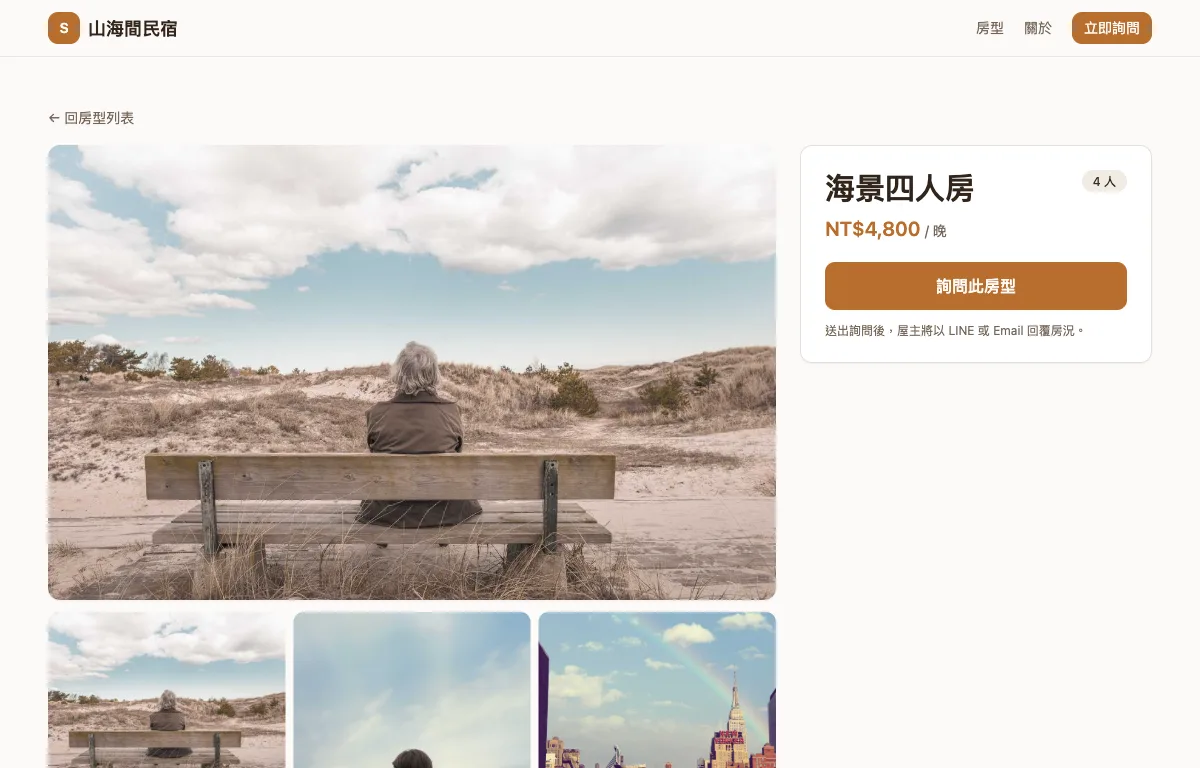
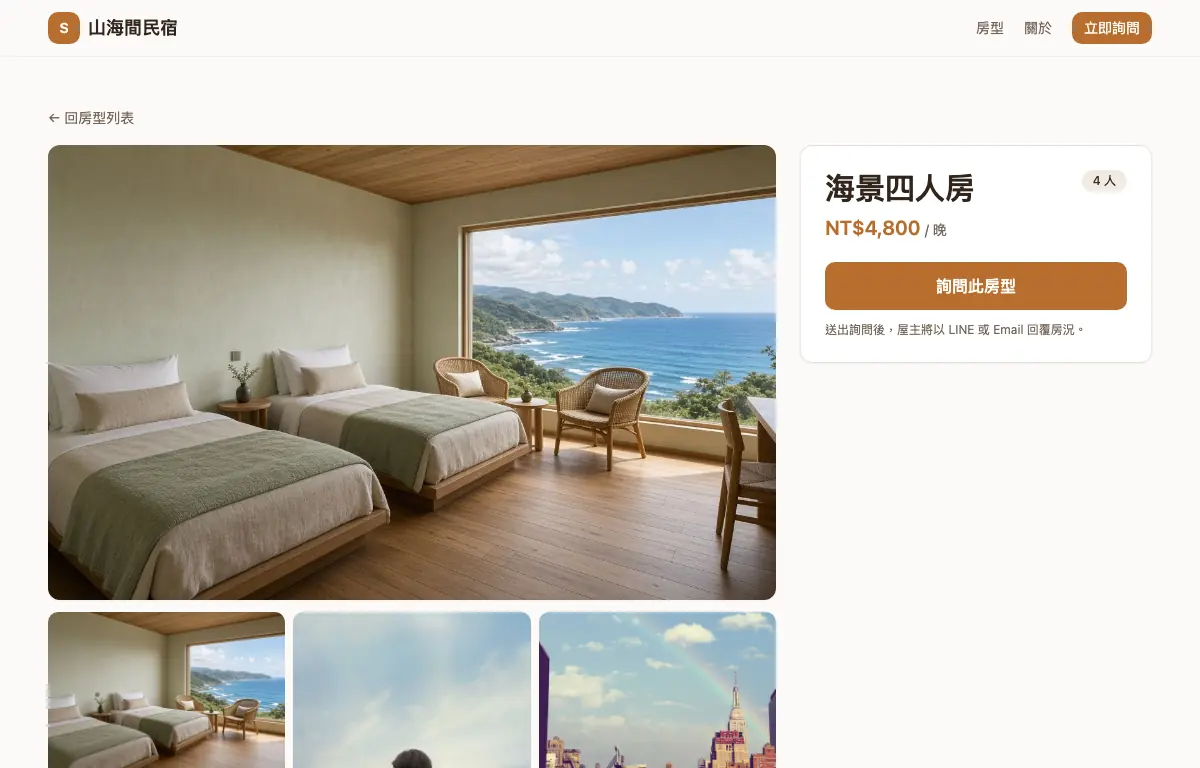
示範房型換成 AI 生成的房間照片
原本是 picsum 隨機風景，海景四人房放的是空拍海岸。頁面標明照片為 AI 生成示意；產品截圖從正式建置重抓。

diff --git a/src/lib/rooms-store.ts b/src/lib/rooms-store.ts
@@ -23,7 +23,7 @@ const rooms: Room[] = [
     description:
       "面向中央山脈的大片落地窗，清晨可看到雲海。房內備有手沖咖啡組與在地茶葉，適合情侶或商務旅客度過安靜的一晚。",
     amenities: ["免費 Wi-Fi", "獨立衛浴", "山景陽台", "手沖咖啡組", "冷氣 / 暖氣", "停車位"],
-    imageUrl: "https://picsum.photos/seed/staymini-mountain/1200/800",
+    imageUrl: "/rooms/mountain.jpg",
     createdAt: new Date("2026-04-01T08:00:00+08:00"),
   },
   {
@@ -43,7 +43,7 @@ const rooms: Room[] = [
       "停車位",
       "嬰兒床（可加）",
     ],
-    imageUrl: "https://picsum.photos/seed/staymini-ocean/1200/800",
+    imageUrl: "/rooms/ocean.jpg",
     createdAt: new Date("2026-04-01T08:05:00+08:00"),
   },
   {
@@ -62,7 +62,7 @@ const rooms: Room[] = [
       "兒童遊戲區",
       "停車位（兩台）",
     ],
-    imageUrl: "https://picsum.photos/seed/staymini-family/1200/800",
+    imageUrl: "/rooms/family.jpg",
     createdAt: new Date("2026-04-01T08:10:00+08:00"),
   },
 ];

diff --git a/src/lib/site-config.ts b/src/lib/site-config.ts
@@ -15,5 +15,5 @@ export const siteConfig = {
   mapEmbedUrl:
     "https://www.google.com/maps/embed?pb=!1m18!1m12!1m3!1d14463.51!2d121.5!3d23.86!2m3!1f0!2f0!3f0!3m2!1i1024!2i768!4f13.1!3m3!1m2!1s0x0%3A0x0!2zMjPCsDUxJzM2LjAiTiAxMjHCsDMwJzAwLjAiRQ!5e0!3m2!1szh-TW!2stw!4v0000000000000!5m2!1szh-TW!2stw",
   // Hero background. Swap to local file in /public when going live.
-  heroImageUrl: "https://picsum.photos/seed/staymini-hero/1600/900",
+  heroImageUrl: "/rooms/hero.jpg",
 };

diff --git a/src/app/page.tsx b/src/app/page.tsx
@@ -140,7 +140,7 @@ export default function HomePage() {
       <section className="stay-trust" aria-labelledby="stay-trust-title">
         <div>
           <h2 id="stay-trust-title">這是一個可操作的方案示範</h2>
-          <p>山海間民宿是示範站，不是真實營業的民宿。</p>
+          <p>山海間民宿是示範站，不是真實營業的民宿，照片為 AI 生成示意。</p>
         </div>
         <dl>
           <div>
